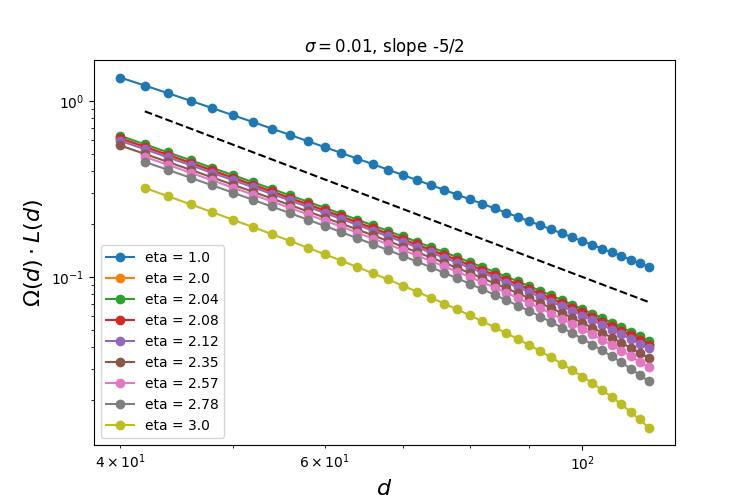
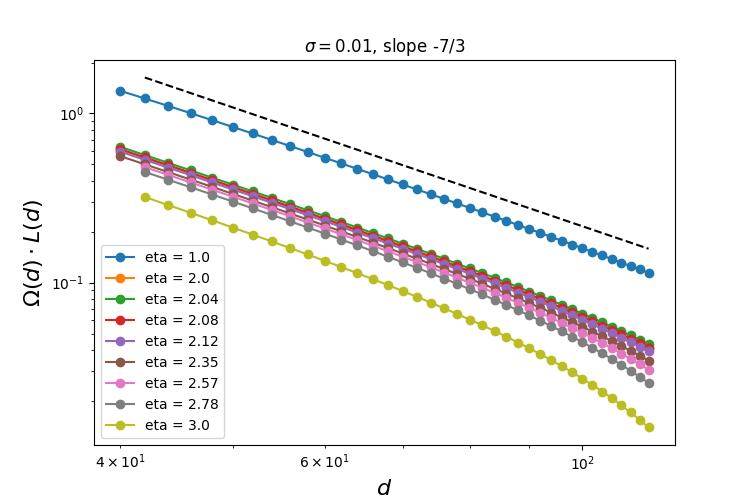
change slope add mu

diff --git a/brush_penetration/ploting_mu.py b/brush_penetration/ploting_mu.py
@@ -20,21 +20,19 @@ plt.figure(figsize=(7.5, 5))
 for p in params:
     Nb, n, m = p
     X = np.loadtxt(f"{path[:path.rfind('/',2)]}/Nb{Nb}n{n}m{m}.txt")
-    plt.plot(
-        X[0, 1:] - 0.5 * (X[0, 1] - X[0, 0]),
-        -np.diff(X[3]) / np.diff(X[0]),
-        "-o",
-        label=f"eta = {round((1 + n/m)**0.5,2)}",
-    )
+    d = X[0, 1:] - 0.5 * (X[0, 1] - X[0, 0])
+    Omega_L = X[2, 1:] + 0.5 * (X[2, 1] - X[2, 0])
+    Pi = - (np.diff(X[3]) / np.diff(X[0]))
+    mu = Omega_L / Pi
+    plt.plot(d, mu, "-o", label=f"eta = {round((1 + n/m)**0.5,2)}")
 
-# plt.plot(X[0], 50*X[0]**(-1/3), '--', color='black')
-# plt.plot(X[0], 20*X[0]**(-1/3), '--', color='black')
-plt.plot(X[0], 3000 * X[0] ** (-7 / 3), "--", color="black")
+plt.plot(X[0], 12*X[0]**(-1/3), '--', color='black')
 
+plt.ylim(1, 10)
 plt.semilogx()
 plt.semilogy()
 plt.legend()
 plt.xlabel("$d$", fontsize=16)
-plt.ylabel("$\Pi(d)$", fontsize=16)
-plt.title("$\sigma = 0.01$, slope -7/3")
-plt.savefig("Pi_d.jpg")
+plt.ylabel("$\mu$", fontsize=16)
+plt.title("$\sigma = 0.01$, slope -1/3")
+plt.savefig("mu_d.jpg")

diff --git a/brush_penetration/ploting_OmegaL.py b/brush_penetration/ploting_OmegaL.py
@@ -24,12 +24,12 @@ for p in params:
 
 # plt.plot(X[0], 50*X[0]**(-1/3), '--', color='black')
 # plt.plot(X[0], 20*X[0]**(-1/3), '--', color='black')
-plt.plot(X[0], 10000 * X[0] ** (-5 / 2), "--", color="black")
+plt.plot(X[0], 10000 * X[0] ** (-7 / 3), "--", color="black")
 
 plt.semilogx()
 plt.semilogy()
 plt.legend()
 plt.xlabel("$d$", fontsize=16)
 plt.ylabel("$\Omega(d) \cdot L(d)$", fontsize=16)
-plt.title("$\sigma = 0.01$, slope -5/2")
+plt.title("$\sigma = 0.01$, slope -7/3")
 plt.savefig("OmegaL_d.jpg")
